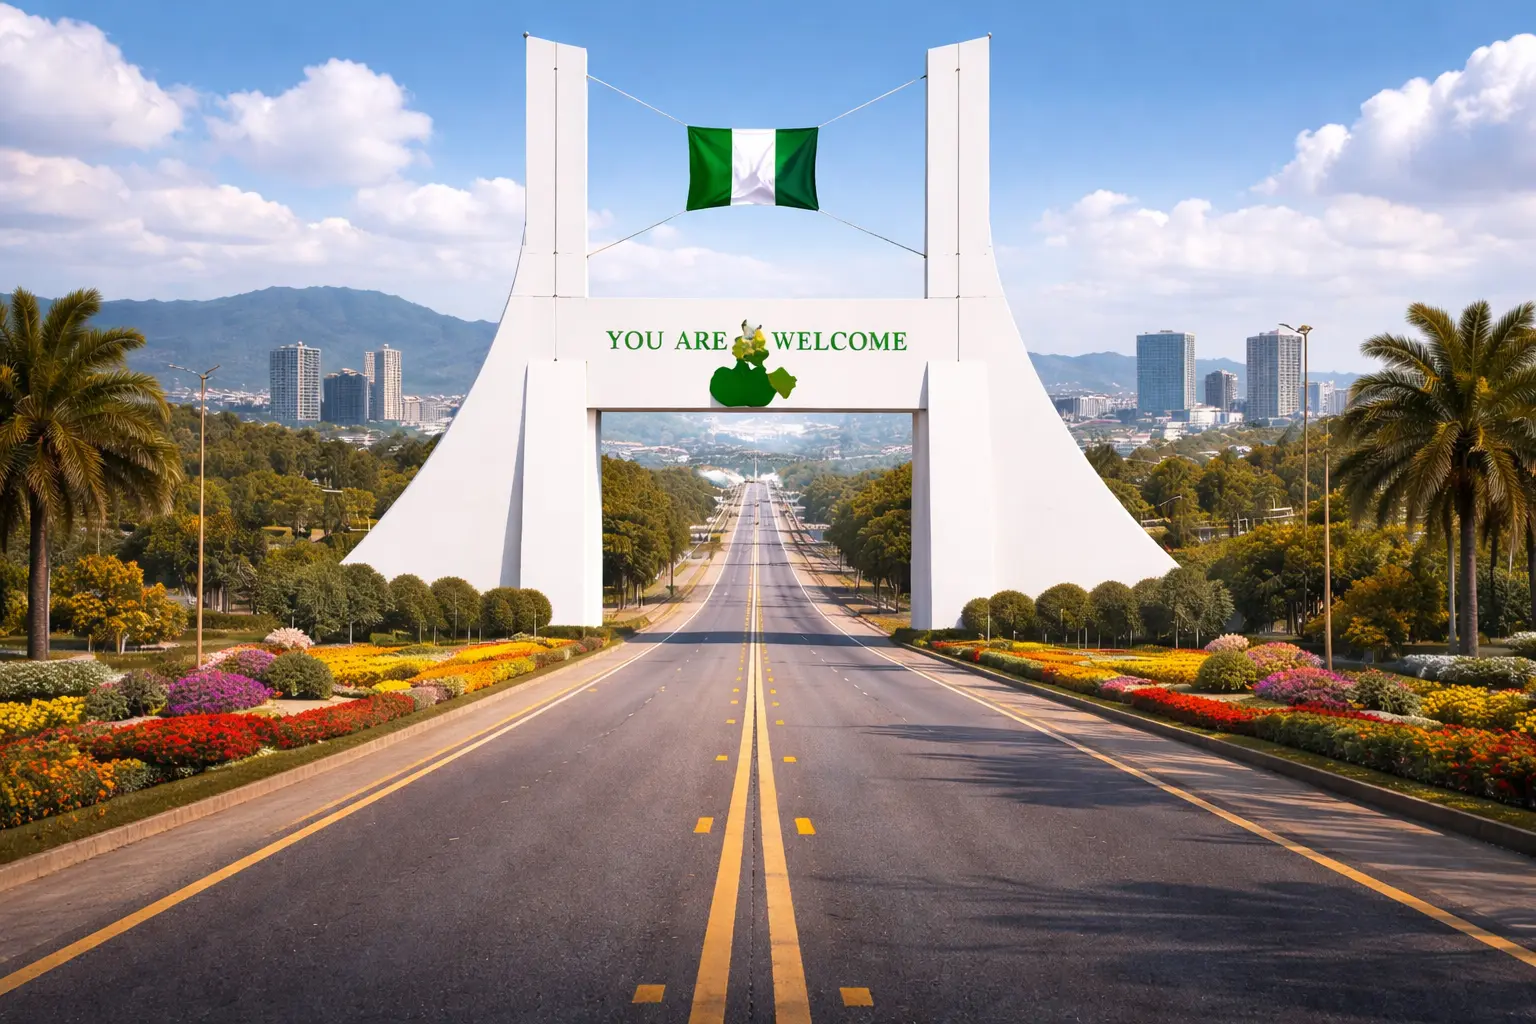
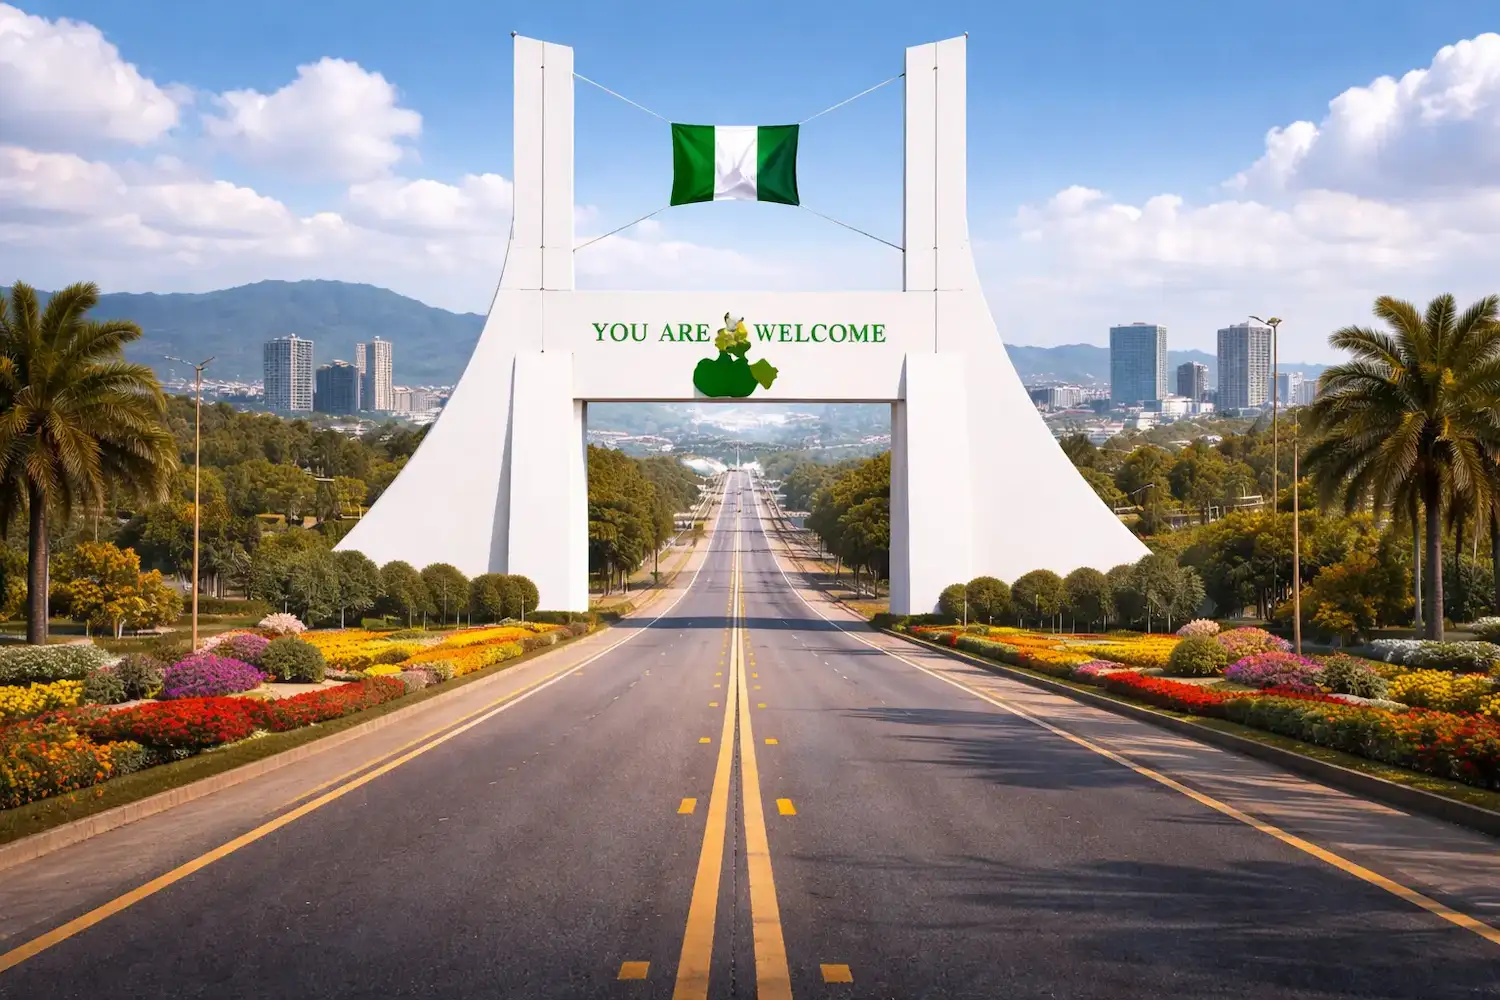
adjusting the size of hero large

diff --git a/place.html b/place.html
@@ -3,7 +3,9 @@
 <head>
     <meta charset="UTF-8">
     <meta name="viewport" content="width=device-width, initial-scale=1.0">
-    <title>Nigeria</title>
+    <title>WDD 131 - Dynamic Web Fundamentals:Nigeria Page - Charles Isama</title>
+    <meta name="description" content="WDD 131 - Dynamic Web Fundamental- Nigeria Country Page">
+    <meta name="author" content="Charles Isama">
     <link rel="stylesheet" href="styles/place.css">
     <script src="scripts/place.js" defer></script>
 </head>
